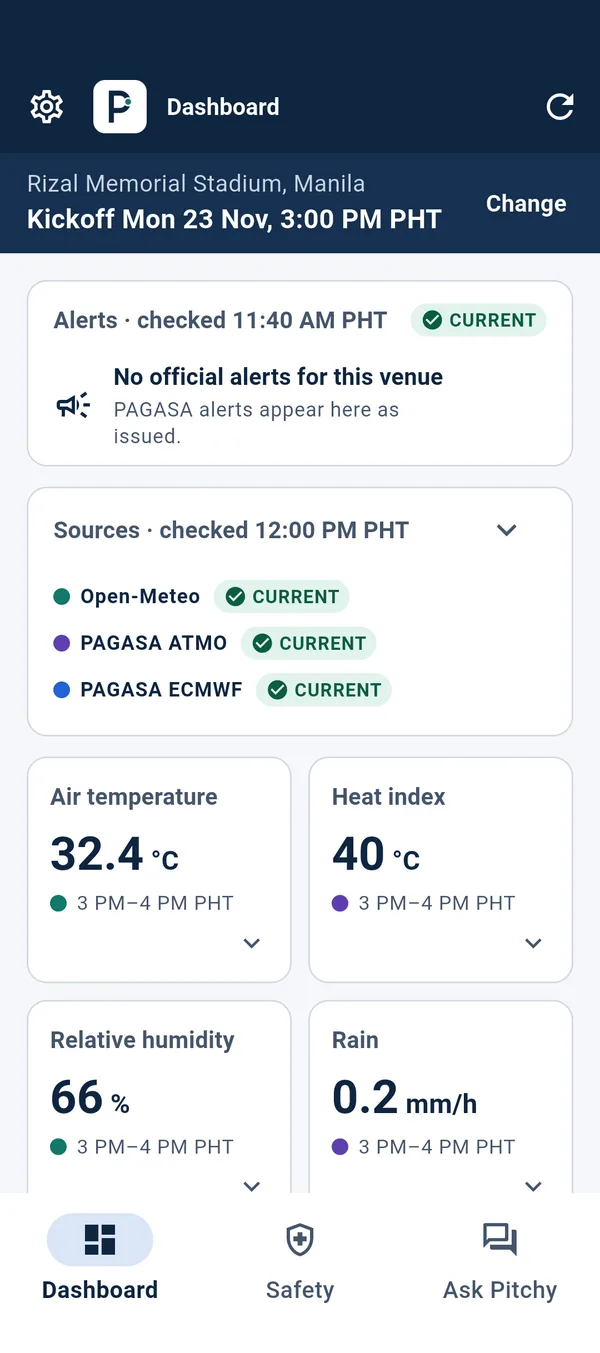
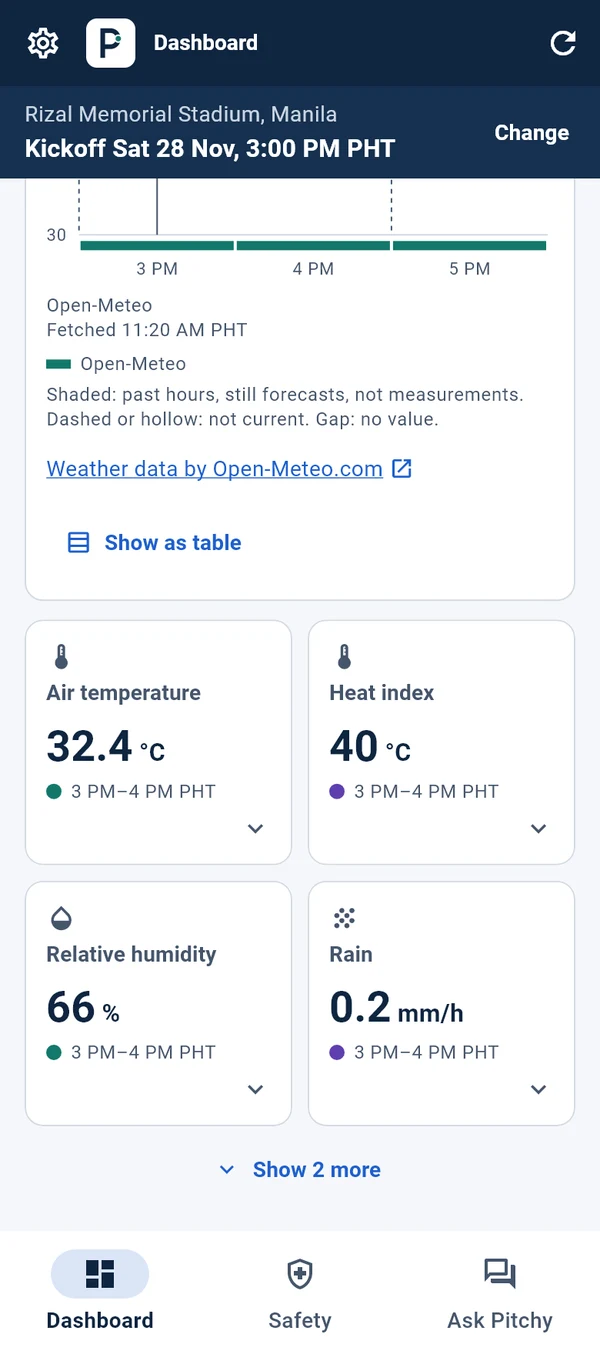
Landing page: Update 2 (P-27) screenshots and hourly trend story step
- Replace app screenshots with the P-27 captures (step 1 now shows the tiles)
- Add the hourly trend step (6 h before kickoff to +5 h, forecasts only, no thresholds)
- Update step 1 and Windows alt text; point README at the P-27 captures

diff --git a/landing_page/index.html b/landing_page/index.html
@@ -122,12 +122,26 @@
                   <li><span class="src-dot src-dost" aria-hidden="true"></span>DOST-ASTI <span class="muted">(planned)</span></li>
                 </ul>
                 <figure class="story-shot">
-                  <div class="device-phone"><img src="/images/app/phone-a2-board.webp" alt="Pitchy dashboard on a phone: alerts, sources and weather cards for Rizal Memorial Stadium." width="600" height="1353" loading="lazy" decoding="async" /></div>
+                  <div class="device-phone"><img src="/images/app/phone-a2-board.webp" alt="Pitchy dashboard on a phone: weather cards for air temperature, heat index, humidity and rain, each with its source and hour." width="600" height="1353" loading="lazy" decoding="async" /></div>
                   <figcaption>App screen with sample data</figcaption>
                 </figure>
               </article>
 
               <article class="story-step" data-shot="1">
+                <h3 class="story-title">Hourly trend around kickoff</h3>
+                <p>
+                  Pick a value and a time range, from 6 hours before kickoff to 5 hours after. The chart shows the
+                  forecast for each hour and which source it came from. Hours already passed are still forecasts, not
+                  measurements, and a missing hour stays a gap. The chart draws no safety limits; those are on the
+                  Safety screen.
+                </p>
+                <figure class="story-shot">
+                  <div class="device-phone"><img src="/images/app/phone-a2c-trend.webp" alt="Pitchy hourly trend on a phone: air temperature for the 6 hours before kickoff, past hours shaded, a Now marker, and the Open-Meteo source under each hour." width="600" height="1353" loading="lazy" decoding="async" /></div>
+                  <figcaption>App screen with sample data</figcaption>
+                </figure>
+              </article>
+
+              <article class="story-step" data-shot="2">
                 <h3 class="story-title">The safety status, from the rules</h3>
                 <p>
                   Pitchy’s safety engine checks heat, lightning and rain against the approved rules. It shows what the
@@ -139,7 +153,7 @@
                 </figure>
               </article>
 
-              <article class="story-step" data-shot="2">
+              <article class="story-step" data-shot="3">
                 <h3 class="story-title">Ask Pitchy, in plain words</h3>
                 <p>
                   Ask about the weather and the guidance for your match. Pick your role, such as coach, referee, medical
@@ -155,6 +169,7 @@
             <div class="story-device" aria-hidden="true">
               <div class="device-phone device-sticky">
                 <img class="is-active" src="/images/app/phone-a2-board.webp" alt="" width="600" height="1353" decoding="async" />
+                <img src="/images/app/phone-a2c-trend.webp" alt="" width="600" height="1353" loading="lazy" decoding="async" />
                 <img src="/images/app/phone-a3-safety.webp" alt="" width="600" height="1353" loading="lazy" decoding="async" />
                 <img src="/images/app/phone-a4-chat-entry.webp" alt="" width="600" height="1353" loading="lazy" decoding="async" />
               </div>
@@ -180,7 +195,7 @@
                 <img src="/brand/pitchy-logo.png" alt="" width="16" height="16" />
                 <span>Pitchy</span>
               </div>
-              <img src="/images/app/desktop-board.webp" alt="Pitchy dashboard on Windows: alerts, sources and four weather cards side by side." width="1280" height="926" decoding="async" />
+              <img src="/images/app/desktop-board.webp" alt="Pitchy dashboard on Windows: alerts, sources and the hourly trend for Rizal Memorial Stadium." width="1280" height="926" decoding="async" />
             </div>
             <figcaption>App screen with sample data</figcaption>
           </figure>

diff --git a/landing_page/README.md b/landing_page/README.md
@@ -57,6 +57,6 @@ Also update the requirement lines in `src/install/platforms.ts` once the minimum
 | `src/install/sheet.ts` | Install sheet (`<dialog>`) that opens after the first goal |
 | `src/styles/tokens.css` | Colours, type, spacing (colours follow the app's DESIGN.md) |
 | `public/brand/pitchy-logo.png` | Placeholder logo: replace this one file when the real logo arrives |
-| `public/images/app/` | App screenshots with sample data, from the F5 QA runs |
+| `public/images/app/` | App screenshots with sample data, from the P-27 captures (`docs/frontend/reviews/p27-landing/`) |
 
 The weather on the pitch is an illustration, never live data.
